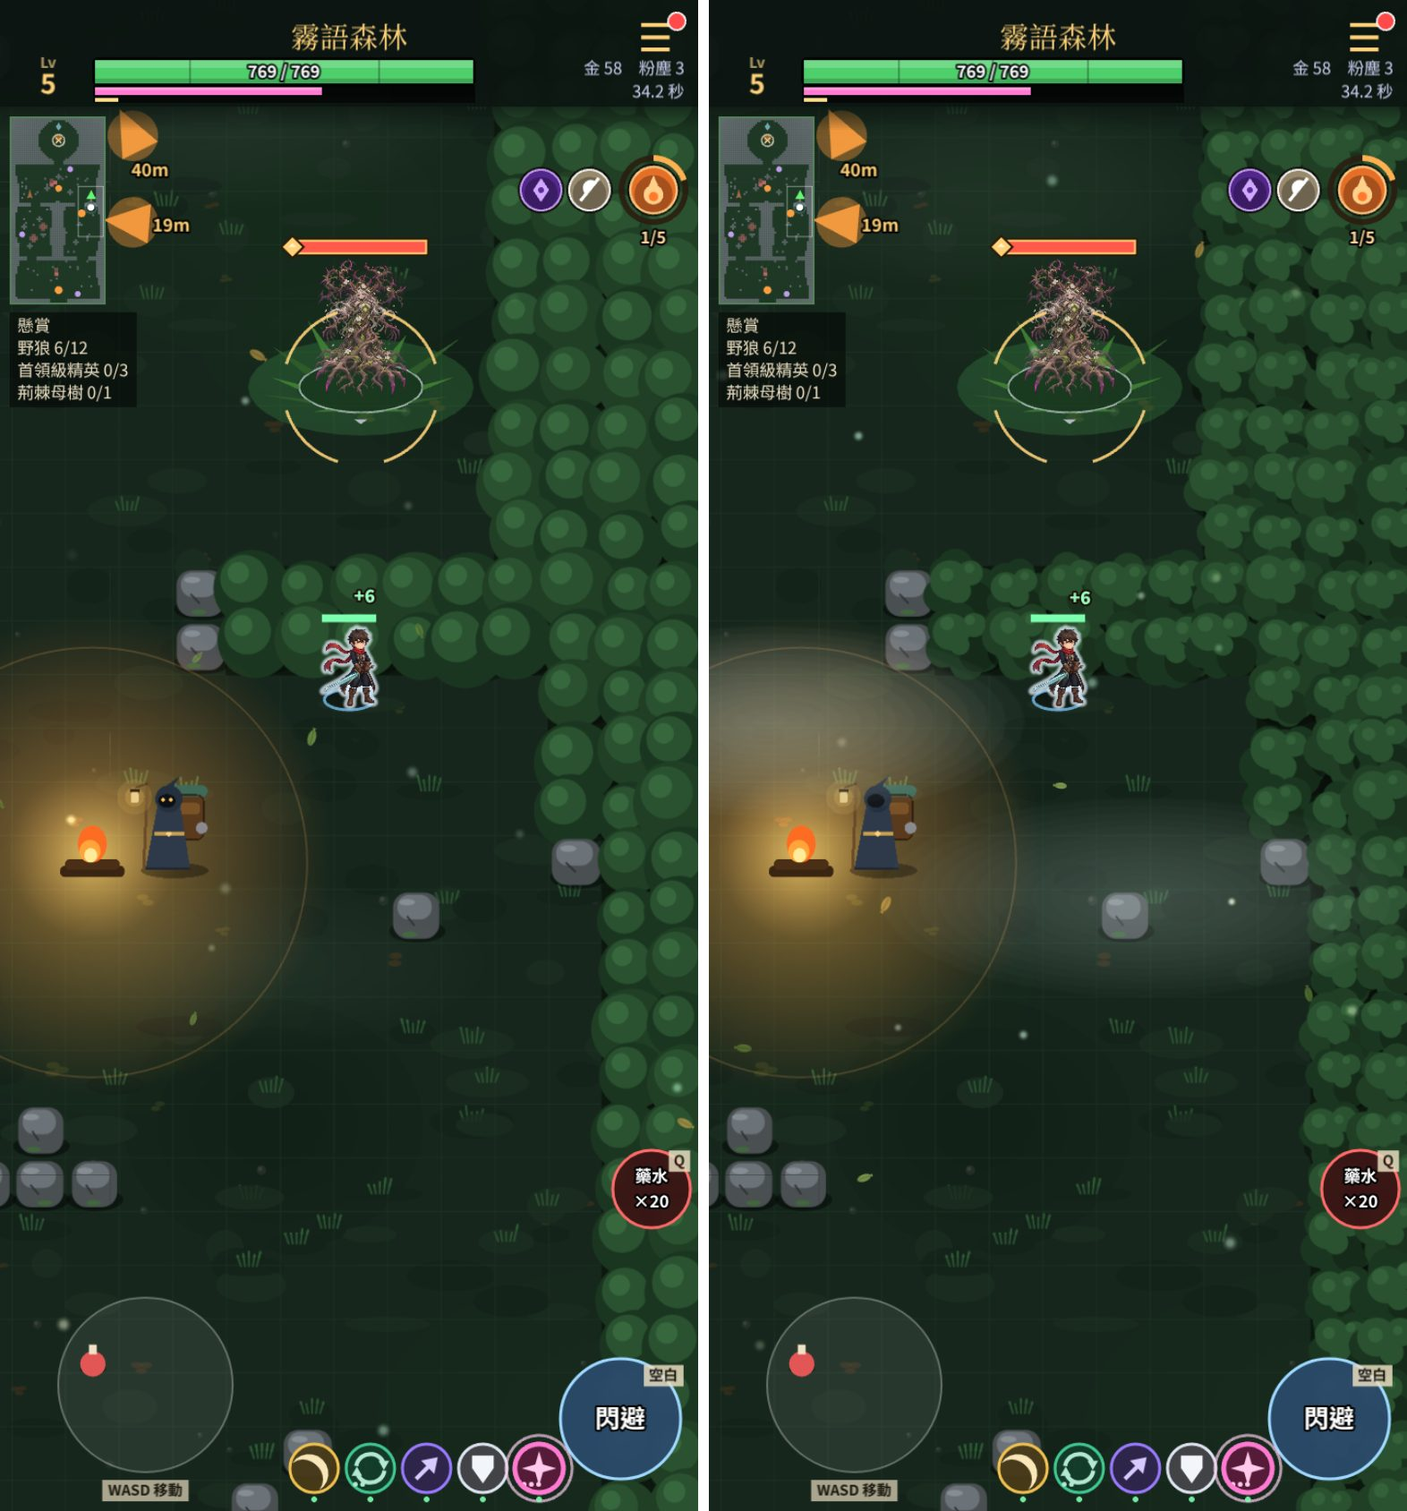
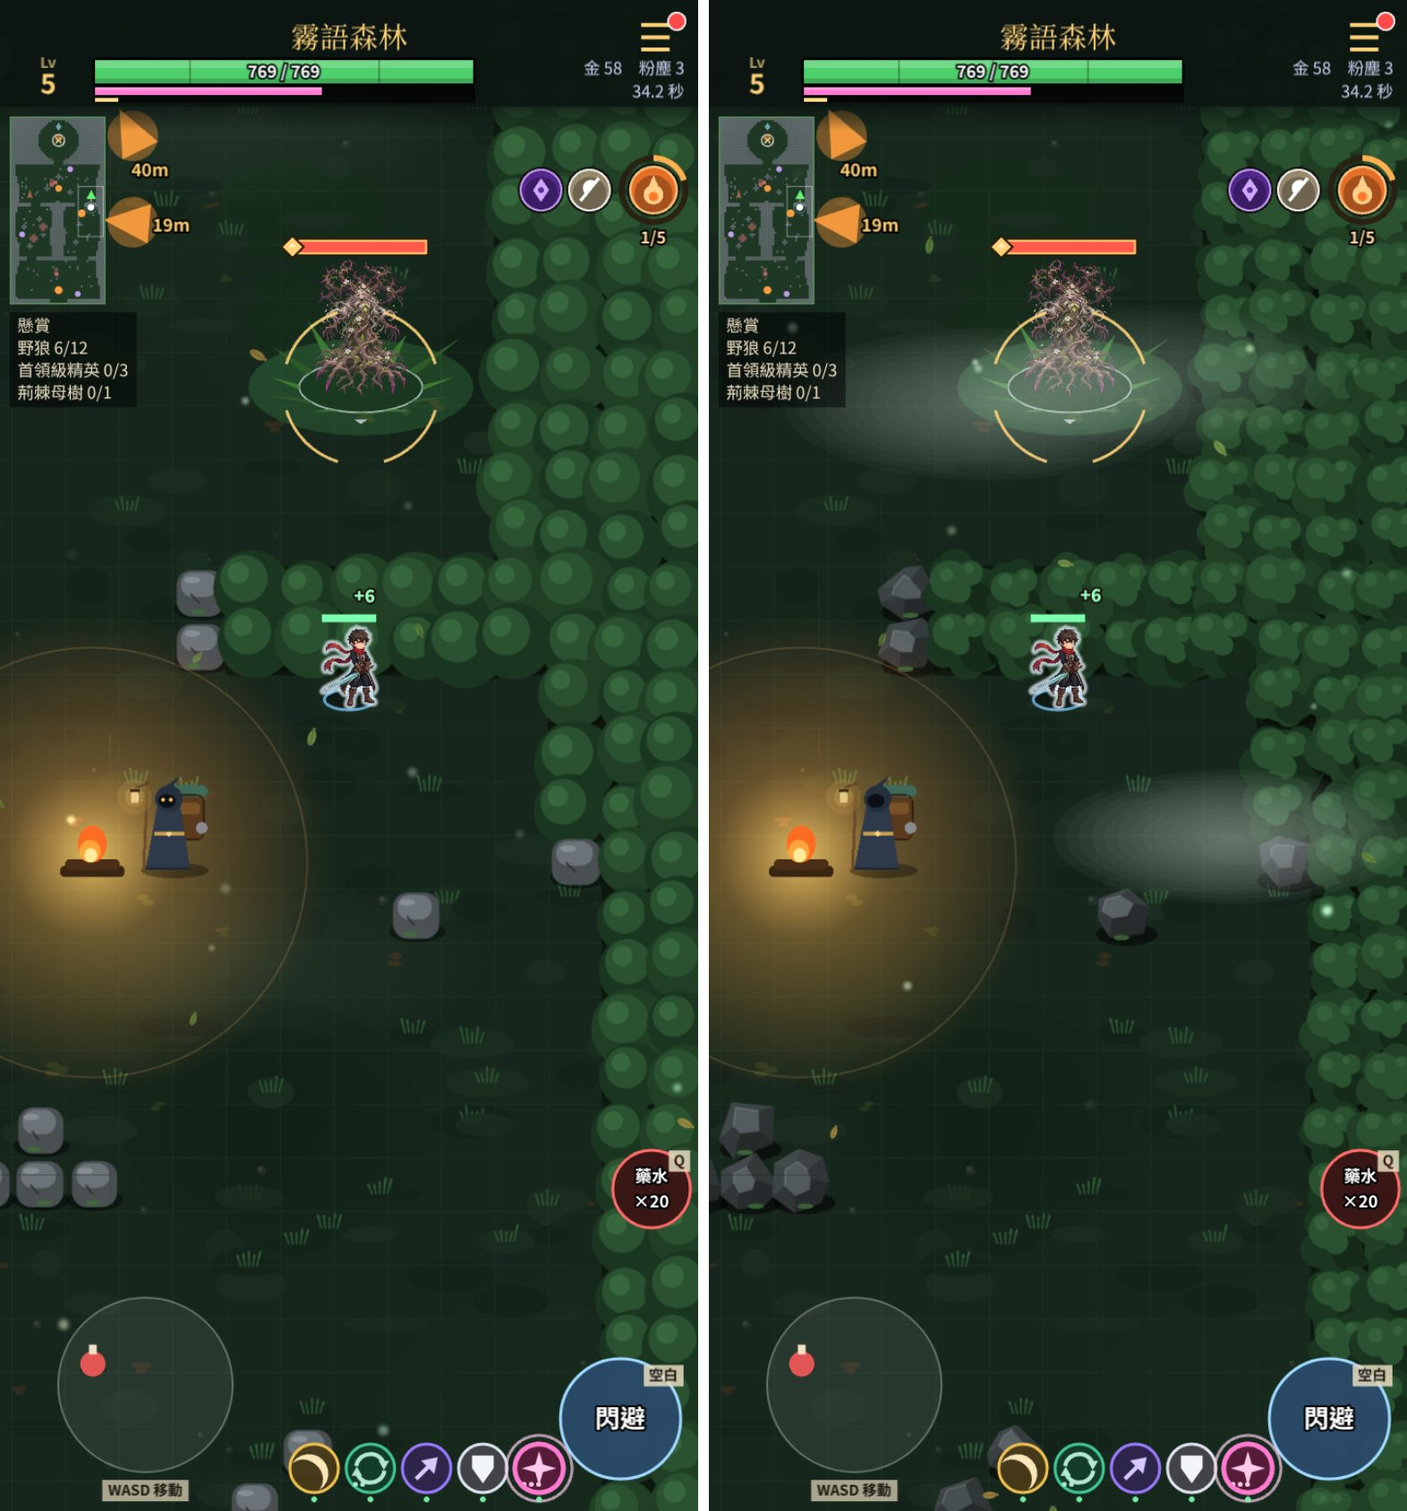
第 196 輪：PROGRESS（第 195 輪合併成摘要）、DECISIONS D-394／D-395、NEXT、FOR_JACKY；森林對照圖更新 [skip ci]
Claude-Session: https://claude.ai/code/session_01DgXGTuMTgFUxpVKL6tWftS

diff --git a/docs/PROGRESS.md b/docs/PROGRESS.md
@@ -1,17 +1,24 @@
 # 進度紀錄（新的在最上面）
 
-## 2026-11-13 20:11–20:56（台北）第 195 輪 — 自動技能小圖示、荊棘叢、熔岩口火柱、火花不蓋血條
-**基準** b5562a5 → **結果** feff178（程式五個 commit：82df74c、2a92f37、b3be5a4、94a6bbf、feff178）。FOR_JACKY「回覆」空；沒有 Issue、art-inbox 空、沒有 Jacky 的新 commit；開工時 CI 綠（5172c49）。`add_repo` 工具載不到，repo 已在工作目錄、push 正常。**開工時 main 最上面是一個 18:12（台北）搶的鎖、之後沒有任何 commit**（那一輪沒留下東西），鎖已過期 9 分鐘，照規則接手。第 0 項、RF、P1～P3 都已 verified，照順序做「看得見的打磨」，每件都是先玩、放大看了才挑的。
-- **① 底部那排自動技能小圓圈有圖示了**（82df74c、94a6bbf，D-392；第 192 輪候選 ②）：以前五顆只是不同顏色的暗圓，全自動後永遠在冷卻，所以永遠是「1.3」「7」「4」「1.3」「39」（最後那個其實是 MP）。現在每顆畫一個照招式資料決定的記號（直線＝箭、扇形＝月牙、身邊一圈＝漩渦、落在前方＝墜落、護盾＝盾、大招＝四芒星；多段招多兩三個小點），換打法會跟著換；短冷卻只看扇形，等 12 秒以上才寫秒數。技能樹每個節點左上角畫同一顆。**玩家一眼認得出哪顆是哪招。**
-- **② 荊棘谷的荊棘叢不再是滿畫面發亮的紫紅色氣球**（2a92f37，D-393）：以前和樹冠同一招（大圓＋亮面＋高光）配紫紅色，鋪滿畫面時比主角和怪搶眼，叢裡的亮紅漿果像掉落物。現在每叢三團暗色葉簇＋細短的刺、沒有高光、漿果少而暗。**主角、怪、石頭在荊棘谷比較跳得出來。** 試過加藤／暗縫，疊起來像一張臉，拿掉了。
-- **③ 熔岩口噴發的火柱**（b3be5a4）：以前是一塊平色橘色長方形、depth 比 HUD 高，小地圖底下的噴發口一噴就蓋住「Lv」和血條左端。現在是柔光三層、畫在 HUD 底下、柱頂不進標題列。
-- **④ 火花不再飄到頂端的血條和等級上**（feff178）：火花、命中火花、灼燒火星的 depth（800）比標題列（48～50）高，貼近上緣的戰鬥會把粒子灑在血條上。冒險地圖設了一道「天花板」：發射點在標題列裡的不放、飄進去的直接消失（`fx/fxCeiling.ts`、`feel.setFxCeiling`）。競技場沒設。
-- **驗證（本次）**：①②③④ 各自 commit 前都跑過 typecheck、lint、build、`npm test`、`build:online`（最後一次：**167 檔過 1 跳過、1177 項過 3 跳過**）；94a6bbf（改一個透明度常數＋截圖腳本）只跑了 typecheck、lint 和 `skill-glyph` 那一檔。`build:server` **沒跑**（沒動 server）。全是純畫面，沒動 core，golden hash、campaign、PvP 契約沒變。新測試 `skill-glyph`（5）、`thorn-bush`（3）、`vent-column`（3）、`fx-ceiling`（2）都是和實作同一步寫的，只鎖純函式；`thorn-bush` 的「葉簇不凸出大圓」一開始設 1.02 沒過（實際凸出一成多），看過截圖覺得這個起伏是好的，把上限改成 1.15 並照實寫。`npm run wiki`：沒跑（沒改數值）。本機 SQL：跳過。
-- **截圖**：`docs/screenshots/skill-glyph-before-after.jpg`、`thorn-bush-before-after.jpg`、`vent-column-before-after.jpg`、`fx-ceiling-before-after.jpg`。看過：小圖示＝劍／弓／杖各 3 幀（荊棘谷 390 寬三倍解析度）、杖・霧語 360 寬＋省電、技能樹（杖）、左手模式＋選了變化打法（弓・環形箭雨）；荊棘叢＝弓／劍白天、杖・深夜 360 寬；火柱＝用腳本直接叫出演出，0.05／0.12／0.25 秒各一幀，一般位置與貼近上緣；天花板＝在標題列正下方直接放十二團灼燒火星，前後各一幀（以前灑在血條上、現在沒有），另放在畫面中間確認照常出現。**沒看**：天花板對 `sparks`／`hitSparks` 的實際效果（只實拍了灼燒火星那一支；三支用同一個設定）；小圖示在調整按鈕位置的模式、切回手動的大鍵（那一支沒動）；荊棘叢在省電畫質（地面同一張，應該一樣，沒拍）；火柱在實際噴發時（只拍了直接叫出來的，半徑用 150，實際約 80）、省電、深夜；升級光柱改了貼圖函式的名字，沒重拍。
-- **狀態**：四件都 verified（靜態截圖，範圍如上）。記號看不看得懂、荊棘會不會太暗太素是主觀的，FOR_JACKY 各提一行。
-- **已知限制**：弓的第一、三欄原招都是「箭」（靠金／紫分）；荊棘叢仍是程式畫的色塊，不是原畫；衝擊環（depth 790）與傷害數字仍可能畫到標題列上；粒子還是會蓋到小地圖和右上的祝福圖示（天花板只擋標題列那一條）。
-- **下一項**：看 Jacky 的回饋；沒有就從 NEXT 第 195 輪注意列的候選挑。
-- **CI**（收尾前查過）：82df74c、2a92f37、94a6bbf、feff178 的 CI（check＋mssql）都 **success**；b3be5a4 的 CI 被下一個 push 取消（cancelled，它的內容包含在 94a6bbf 那次裡）。94a6bbf、feff178 的 Pages 與 APK 也 success；82df74c、2a92f37 的 Pages／APK 沒有回頭查。
+## 2026-11-13 22:16–23:00（台北）第 196 輪 — 三張圖的地形不再是「球」、大招閃光有中心
+**基準** a44c148 → **結果** 8d08e9e（程式五個 commit：6f5423d、ce6acf3、f07ecee、3f4371a、8d08e9e）。FOR_JACKY「回覆」空；沒有 Issue、art-inbox 空、沒有 Jacky 的新 commit；開工時 CI 綠（feff178）。`add_repo` 工具載不到，repo 已在工作目錄、push 正常。第 0 項、RF、P1～P3 都已 verified，照順序做「看得見的打磨」：先各張圖玩一段、放大看，挑最礙眼的。
+- **目標｜玩家感覺**：成片的牆和零星的石頭四張圖都是「大圓／圓角方塊＋亮面＋高光點」，鋪滿半個畫面時像球池和鍵帽，還比主角亮。這輪把三張圖換成各自的形狀（D-394），**地圖看起來像森林、像岩壁，主角和怪比較跳得出來**。
+- **① 燼紅裂谷的岩壁**（6f5423d、ce6acf3）：灰色大圓 → 有稜角的玄武岩塊（5～7 邊、側面照受光分明暗、頂面一階亮、沒有圓形高光；`rt/emberRock.ts`）。裂紋照舊疊在上面。
+- **② 霧語森林的樹**（f07ecee）：三個同心圓（像鈕扣）→ 一團葉簇（輪廓有起伏、右下暗、左上亮、兩小撮葉尖；`rt/treeCrown.ts`）。新玩家第一眼看到的地圖。
+- **③ 零星的石頭**（ce6acf3、8d08e9e）：森林／荊棘谷的藍灰色圓角方塊、燼紅裂谷的「圓角方形＋亮橘斜線」→ 同一種有稜角的岩塊，顏色跟著地圖走（`ground.ts` 的 `LONE_ROCK`）。荊棘谷最明顯：以前樹叢邊上一整排亮藍灰的方塊。
+- **④ 大招的閃光**（3f4371a，D-395）：逐幀看，`ultFlash` 是一整片平的粉紫色（峰值四成、約十幀），像螢幕變色。改成薄底光＋以出招／落點為中心的柔光：**看得出光從哪裡爆出來**，畫面邊緣只剩以前的三成以下。峰值上限、深度（HUD 下面）沒變。
+- **驗證（本次）**：每個 commit 前都跑 typecheck、lint、build、`npm test`；②④③ 另跑 `build:online`。最後一次 **169 檔過 1 跳過、1188 項過 3 跳過**。`build:server` **沒跑**（沒動 server）。全是純畫面：core 的碰撞格、golden hash、campaign、PvP 契約沒變。新測試 `ember-rock`（4）、`tree-crown`（4）、`ult-flash` 多 1 項，都是和實作同一步寫的，只鎖純函式的形狀規則，好不好看是看截圖判斷的。`npm run wiki`：沒跑（沒改數值）。本機 SQL：跳過。
+- **截圖**（都是左＝以前、右＝現在，兩倍解析度）：`docs/screenshots/ember-rock-before-after.jpg`、`tree-crown-before-after.jpg`、`lone-rock-before-after.jpg`（荊棘谷）、`ult-glow-before-after.jpg`（法杖大招出手後第一幀）。另外看過沒留圖的：燼紅裂谷與霧語森林的深夜＋省電＋360 寬、燼心岩王的王座（岩壁沒擋到預告）、劍（深夜省電 360）／弓／杖的大招閃光、競技場開一場沒有頁面錯誤。
+- **狀態**：四件都 `verified`（靜態）。**地形好不好看、大招還有沒有「大招感」是主觀的，要 Jacky 實機看**（FOR_JACKY 第 196 輪）。
+- **沒看／沒做**：競技場的大招閃光沒拍到（沒給中心＝畫面正中）；星隕高原沒動（晶柱本來就不是球）；荊棘谷的荊棘叢是上一輪改的、這輪沒動；地面材質在真機上的記憶體／產生時間沒量（多邊形比圓多，只畫一次）。
+- **試過、退回的**：岩塊第一版頂點太規則（每顆都像骰子／螺帽）→ 加大角度與半徑的亂度、頂面大小不一；大招柔光第一版直徑是畫面長邊的 1.6 倍，直式螢幕上等於又是整片 → 縮到 1.0。
+- **玩的時候看到、沒做的**：①弓／杖被三隻怪同時瞄準時，三塊紅色預告疊成一片實心紅（近戰時很小、不礙眼）②怪擠成一團時血條互相蓋住 ③說明字幕條常落在主角頭上那一帶。
+- **下一項**：看 Jacky 的回饋；沒有就從上面三個或 NEXT 第 195 輪注意列的候選挑。
+- **CI**：6f5423d、ce6acf3、f07ecee、3f4371a 的 CI（check＋mssql）**success**；8d08e9e 收尾時還在跑（見本則最後一行）。
+
+## 2026-11-13 20:11–20:56（台北）第 195 輪：摘要（第 196 輪合併；細節看 git log 與 DECISIONS D-392、D-393）
+- 底部自動技能小圓圈畫出「這招怎麼打」的記號（82df74c、94a6bbf；`fx/skillGlyph.ts`）；荊棘谷的荊棘叢從紫紅色氣球改成暗色葉簇（2a92f37；`rt/thornBush.ts`）；熔岩口火柱改柔光、不蓋 HUD（b3be5a4）；火花不飄到頂端血條上（feff178；`fx/fxCeiling.ts`）。
+- 圖 `skill-glyph-before-after.jpg`、`thorn-bush-before-after.jpg`、`vent-column-before-after.jpg`、`fx-ceiling-before-after.jpg`。純畫面，hash 沒變；當輪四項檢查全過（1177 項）、CI 綠（b3be5a4 那次被下一個 push 取消）。已知限制：衝擊環與傷害數字仍可能畫到標題列上；粒子還會蓋到小地圖和右上祝福圖示。
 
 ## 2026-11-13 16:11–16:45（台北）第 194 輪：摘要（第 195 輪合併；細節看 git log）
 - 打過的地圖，頂端兩行金色目標字講 8 秒就淡掉（5172c49；`rt/goalFade.ts`、`tests/goal-fade.test.ts` 3 項）；新角色的「目標：往北…」照舊。補看主角分件走路在出手／被打／翻滾時沒有脫節（`scripts/shot-walk-fight.mjs`；倒下那一幀沒拍到）。

diff --git a/docs/DECISIONS.md b/docs/DECISIONS.md
@@ -2,6 +2,20 @@
 
 > 格式：編號、日期（台北）、決策、理由、替代方案。新的放最上面。
 
+## D-395 2026-11-13 大招閃光：從「整片平的顏色」改成「以出招／落點為中心的柔光」（修正 D-372 的做法，峰值不變）
+- **問題**：D-372 把 camera.flash 換成壓在 HUD 下面、峰值四成的加亮色塊。逐幀看：畫面每個角落一樣亮、約十幀才退，深色地圖上整個畫面變成粉紫色——像螢幕變色，看不出光從哪裡來。大招是自動的，每四十幾秒來一兩次。
+- **決定**：`ultFlashLayers`：全畫面只留 0.25×峰值的底光，另外疊一團以 `at` 為中心的柔光（中心＝峰值、直徑＝畫面長邊）。出手以主角為中心、落地型以落點為中心；沒給 `at`（競技場）＝畫面正中。峰值上限（五成以下）、深度 47 都沒變。
+- **替代**：①只把峰值調低（更沒有大招感）②維持原樣等 Jacky 回（他沒回 D-372 的問題；這次不是調強弱，是讓光有來源）。
+- **代價**：畫面上下緣比以前暗很多，「整個畫面亮一下」的感覺變弱；中心（主角附近）比以前亮一點（0.4 → 0.5）。
+- **撤回**：`ultFlashLayers` 改回 `{ flat: peak, glow: 0, sizeK: 1 }`。
+
+## D-394 2026-11-13 地形不再四張圖共用「圓」：森林＝葉簇、燼紅裂谷＝有稜角的岩塊、零星石頭＝岩塊（延伸 D-393）
+- **問題**：D-393 只改了荊棘谷，寫了「其他三張圖不動」。這輪放大看：燼紅裂谷的灰色大圓鋪滿半個畫面像鐵球池；霧語森林的樹是三個同心圓、像鈕扣；森林和荊棘谷零星的石頭是亮藍灰的圓角方塊（荊棘谷裡比主角還亮）、燼紅裂谷的是「圓角方形＋亮橘斜線」像按鈕。
+- **決定**：每張圖一支畫法，都是純函式＋`ground.ts` 照著畫：`rt/emberRock.ts`（5～7 邊多邊形＋偏左上的頂面，側面照受光分明暗，對比刻意壓低）、`rt/treeCrown.ts`（外圈葉簇＋暗面＋亮面＋葉尖）；三張圖零星的石頭共用 `emberRock`，色票 `LONE_ROCK` 跟著地圖走。星隕高原不動（晶柱）。碰撞格完全沒動。
+- **替代**：①請 Jacky 產牆的圖塊（最好看；要無縫拼接、分塊材質要改，沒提需求——他覺得程式畫的還是不夠再寫進 ART_REQUESTS）②只調色票（還是球）。
+- **代價**：還是程式畫的色塊，不是原畫；岩壁比以前暗、森林比以前「碎」；每格多畫幾個多邊形／圓（只在產生地面材質時畫一次，真機上的產生時間沒量）。
+- **撤回**：`ground.ts` 裡 `forest`／`ember` 兩支拿掉、回到共用的 `fillCircle`＋`crownHi`／`crownTop`；零星石頭那一段看 git（8d08e9e 之前）。
+
 ## D-393 2026-11-13 荊棘谷的荊棘叢：不沿用樹冠的畫法，改成暗色葉簇、沒有高光
 - **問題**：成片的障礙四張圖共用「大圓＋亮面＋高光點」。森林的綠色看起來是樹冠；荊棘谷配上紫紅色就成了一顆顆發亮的球，牆又多，鋪滿畫面時比主角、怪、掉落物都搶眼，亮紅漿果像掉落的藥水。
 - **決定**：荊棘谷自己一支畫法（三團暗色葉簇＋細短的刺，沒有高光；漿果 25% → 10%、變小變暗），色票壓暗一階。其他三張圖不動。

diff --git a/docs/NEXT.md b/docs/NEXT.md
@@ -24,6 +24,12 @@
 
 **主角走路（D-391，`awaiting_visual`，等 Jacky 實機）**：參數都在 `fx/heroWalk.ts` 的 `HERO_WALK`；他回了就照他的調。候選的下一步（他說還不夠才做）：①圍巾／衣襬飄動 ②競技場的主角也分件 ③怪（狼）的腳——同一招要先看圖切不切得開。
 
+**第 196 輪注意（地形 D-394、大招閃光 D-395）**：
+- 地形都在 `rt/ground.ts` 的障礙那一段：成片的（`dense`）分 `forest`（`rt/treeCrown.ts` 的 `crownLobes`）／`ember`（`rt/emberRock.ts`）／`tv`（荊棘叢，第 195 輪）／其他（星隕：圓＋晶柱）；零星的三張圖共用 `emberRock`＋`LONE_ROCK` 色票。參數都在各檔最上面的常數（`EMBER_ROCK`、`TREE_CROWN`）。**地面是分塊材質、只畫一次**：改了要重開遊戲才看得到；亂數一律用 `hr(cx, cy, i)`（每塊重畫要一致），岩塊用 50 起、樹冠用 60 起的索引。
+- 大招閃光：`feel.ts` 的 `ultFlashLayers`（底光比例、柔光大小）、`ultFlash(scene, color, ms, at?)`；新的大招演出記得給 `at`（畫面座標）。競技場沒給。
+- 拍法：地形＝`LEVEL=14 DSF=2 node scripts/play.mjs staff emberrift tag 6 4`（第 5 張在岩壁邊）、`LEVEL=5 DSF=2 … sword mistwood tag 4 9`、`LEVEL=9 DSF=2 … sword thornvale tag 3 7`；大招出手後連續幾幀＝`UNTIL='(()=>{const s=sc().s;return s.events.slice(-20).some(e=>e.type==="cast"&&e.skill==="blade_storm"&&e.tick>=s.tick-1)})()' LEVEL=20 node scripts/play.mjs staff starfall tag 10 90`（三把武器的大招 id 都是 `blade_storm`）。同一條指令兩次跑出來的時間點不一定一樣，對照圖要挑位置相同的。
+- 看過覺得還礙眼、沒做的（依序）：①弓／杖被一群怪同時瞄準時，幾塊紅色預告疊成一片實心紅（`RtBattleScene` 畫預告那一段，底色透明度會累加）——要動的話只能淡底色，外框、箭頭、前緣不能淡 ②怪擠成一團時血條互相蓋住 ③說明字幕條常落在主角頭上那一帶 ④競技場的大招閃光沒拍過。
+
 **第 195 輪注意（小圖示記號 D-392、荊棘叢 D-393、熔岩口火柱）**：
 - 小圖示：`fx/skillGlyph.ts`（`skillGlyph` 照資料分類、`drawSkillGlyph` 畫法、`COMPACT_ICON` 透明度與「幾 tick 以上才寫秒數」、`compactLabel`）；`RtBattleScene` 的 `showGlyph`／`glyphImgs`（depth 49.7：按鈕底 49.5 上面、`ui` 畫筆 50 下面，所以冷卻扇形蓋在記號上）；技能樹在 `rtSkillPanel.ts` 的 `gi`。想要秒數回來把 `COMPACT_ICON.longTicks` 改成 0。
 - 荊棘叢：`rt/thornBush.ts`（葉簇位置、刺、漿果）＋`worldMaps.ts` 荊棘谷的 `crownA／B／Hi`；`ground.ts` 的 `if (tv)` 那一支。**不要在葉簇上畫弧線或成對的暗點——會變成臉。** 退回：把 `if (tv)` 那支改回和 `else` 一樣、色票改回 `0x3a1828／0x45202f／0x6a2c3e`。

diff --git a/docs/FOR_JACKY.md b/docs/FOR_JACKY.md
@@ -51,6 +51,10 @@
 - 我沒有產圖工具，所以沒有重畫；改成把你產的主角立繪**切出兩隻靴子**，走路時輪流抬腳往前跨、身體跟著起伏前傾。畫風不變——圖 `docs/screenshots/hero-walk-before-after.jpg`。
 - **請你實機走幾步**：像不像在走、步伐太快還是太慢、幅度夠不夠（都是改數字）。還不夠的話下一步是讓圍巾和衣襬飄；要更好就需要你產走路圖，我再寫需求。競技場的主角還沒改。
 
+## 🟡 11/13 第 196 輪（想聽你的意見，不回就照這樣）
+- **三張圖的地形重畫了（還是程式畫的，沒有新圖）**：霧語森林的樹從「一排排綠色鈕扣」變成一團團葉簇（`docs/screenshots/tree-crown-before-after.jpg`）；燼紅裂谷的岩壁從「一池灰色鐵球」變成有稜角的岩塊（`ember-rock-before-after.jpg`）；森林和荊棘谷零星的石頭不再是亮藍灰的方塊（`lone-rock-before-after.jpg`）。**請你實機各進一張圖看**：有沒有比較像森林／岩壁、會不會太暗或太碎；不喜歡哪一張說一聲，各自退得回去。想要真的好看的牆需要你產圖塊，你說要我再寫需求。
+- **大招的閃光**：以前整個畫面蒙一層粉紫色，現在光從主角／落點散開、畫面邊緣幾乎不變（`ult-glow-before-after.jpg`）。會不會變得不夠有大招感，跟我說（改兩個數字）。
+
 ## 🟡 11/13 第 195 輪（想聽你的意見，不回就照這樣）
 - **底部那排自動技能的小圓圈有圖示了**：以前五顆只是暗色圓＋數字，認不出哪顆是哪招；現在每顆畫出這招怎麼打（箭＝直線、月牙＝前方揮砍、漩渦＝身邊一圈、盾＝護盾、星＝大招），冷卻看扇形轉回來，要等 12 秒以上才寫秒數。技能樹每招左上角也有同一顆——圖 `docs/screenshots/skill-glyph-before-after.jpg`。**請你實機看**：記號看不看得懂、會不會太小、少了秒數會不會不方便（加回來是改一個數字）。
 - **荊棘谷的荊棘叢**：以前是滿畫面發亮的紫紅色圓球，比主角和怪還搶眼；現在是暗色的葉簇＋細刺——圖 `docs/screenshots/thorn-bush-before-after.jpg`。會不會太暗太素、不像荊棘谷了，跟我說（退回很快）；想要真的好看的荊棘牆需要你產圖，你說要我再寫需求。
